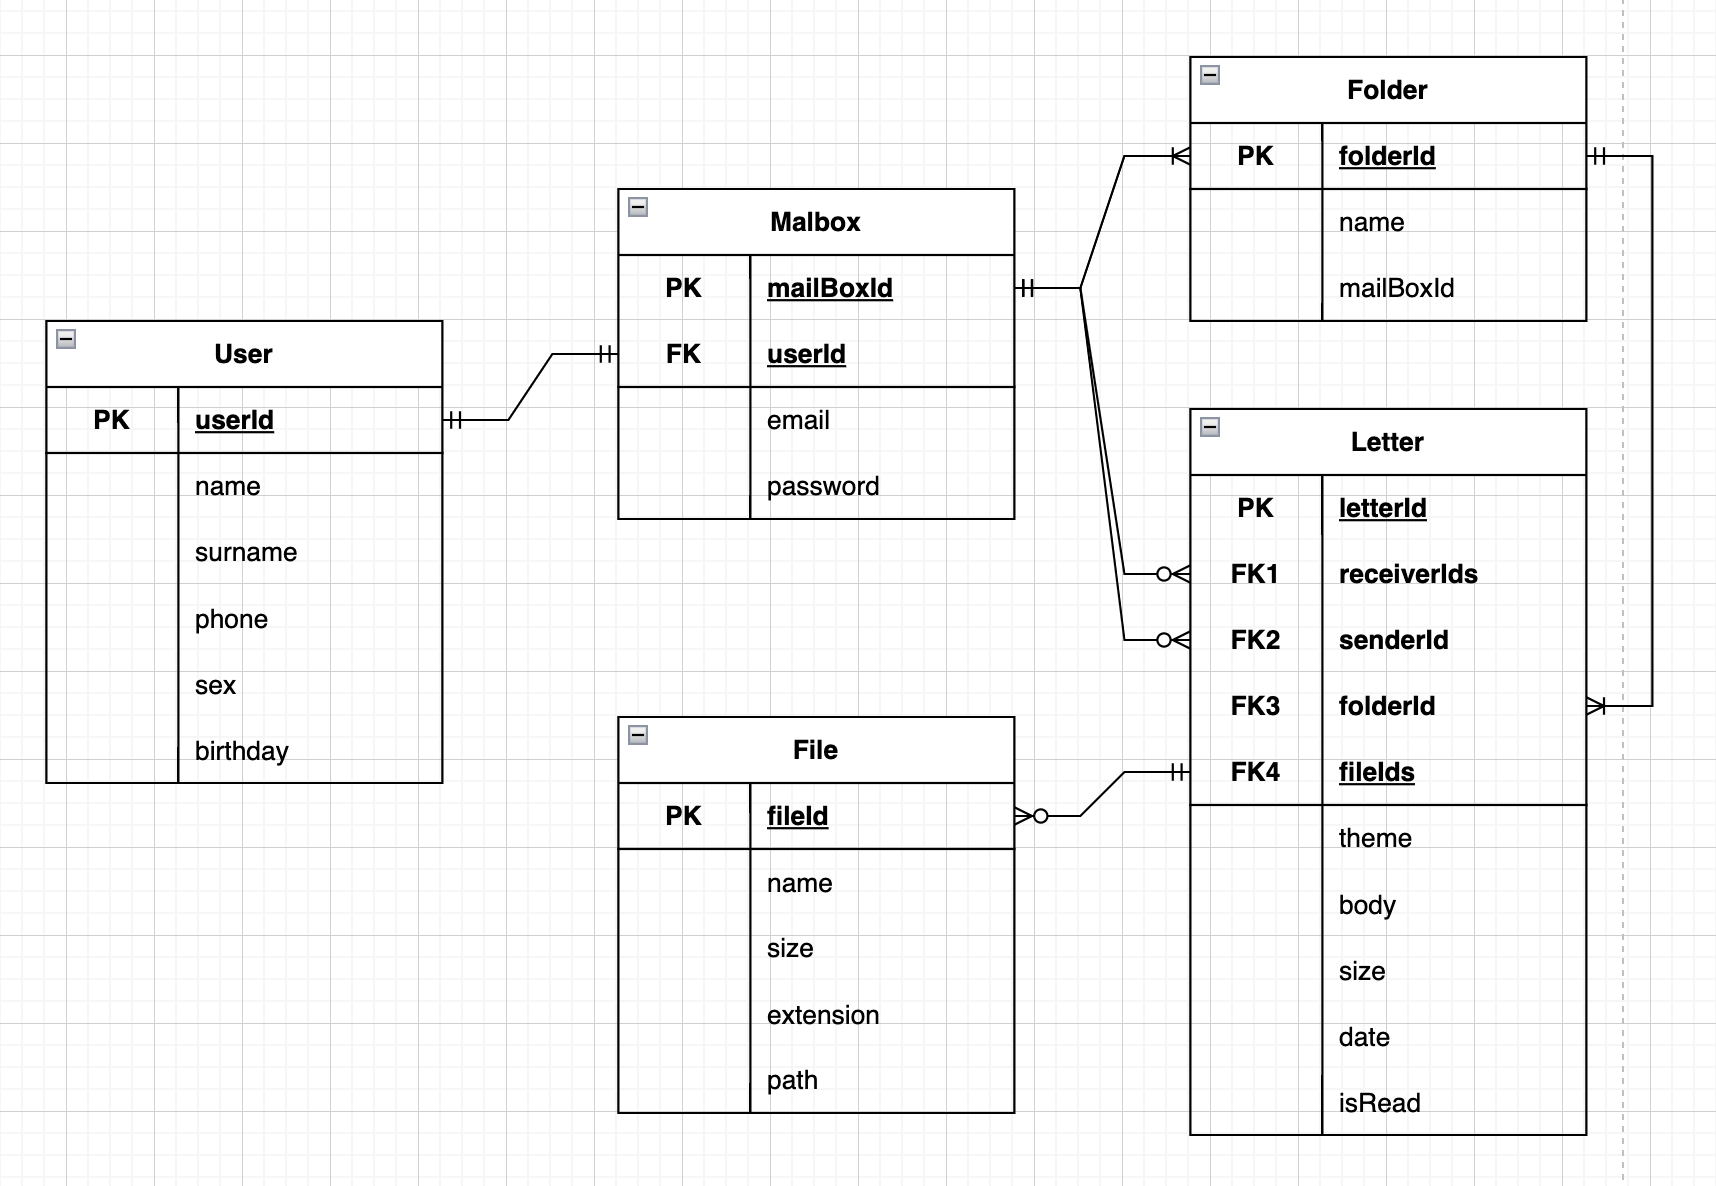
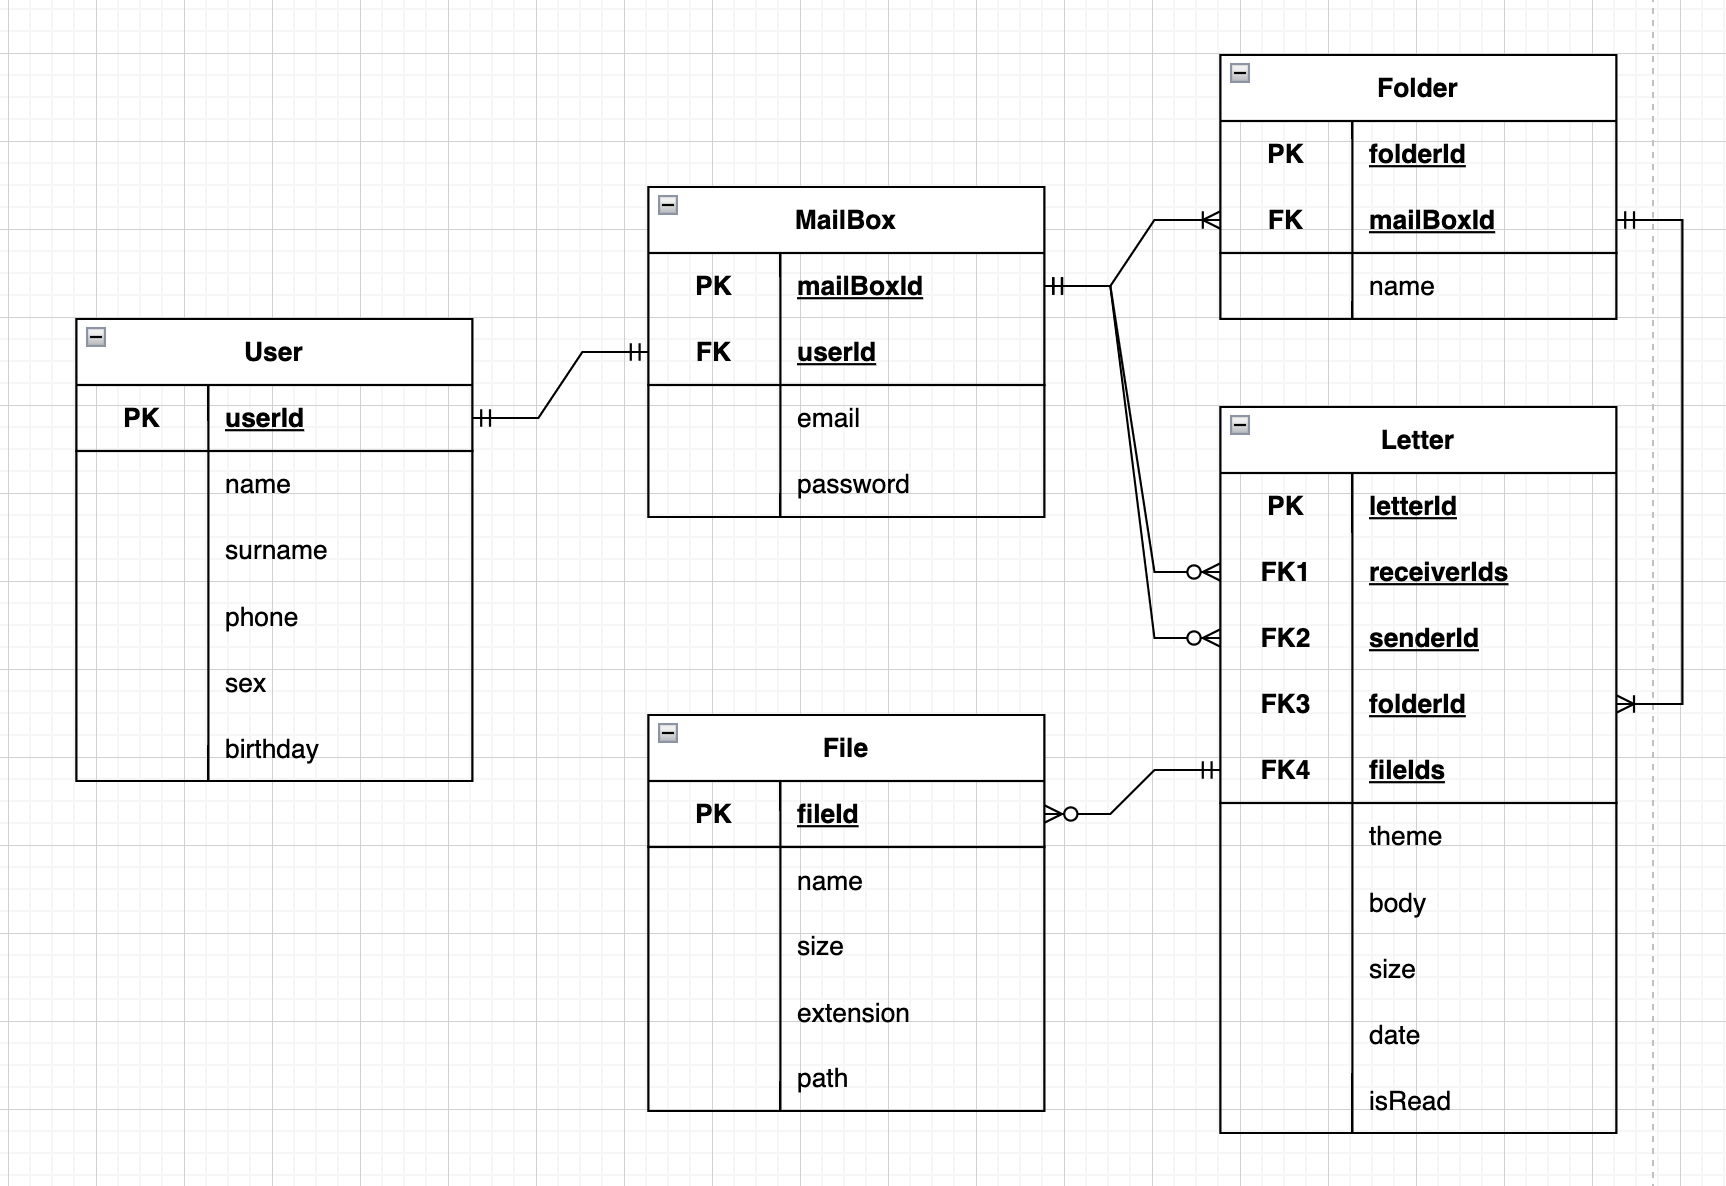
feat: add physical diagram of the database

diff --git a/README.md b/README.md
@@ -7,6 +7,7 @@
 * ### [Глобальная балансировка нагрузки](#3)
 * ### [Локальная балансировка нагрузки](#4)
 * ### [Логическая схема БД](#5)
+* ### [Физическая схема](#6)
 
 ## 1. Тема и целевая аудитория <a name="1"></a>
 
@@ -152,7 +153,83 @@
 ## 5. Логическая схема БД <a name="5"></a>
 ![image](er.png)
 
+## 6. Физическая схема <a name="6"></a>
+
+### Mailbox
+
+mailBoxId | userId  | email       | password    |
+--------- | ------- | ----------- | ----------- | 
+bigint    | bigint  | varchar(20) | varchar(32) | 
+
+Максимальный вес сущности <b>Mailbox</b> для одного пользователя:
+
+    8 + 8 + 20 + 32 = 68 байт ~ 0,07 Кбайт
+
+### User
+
+userId  | name          | surname      | phone  | sex      | birthday       | 
+------  | ------------- | ------------ | ------ | -------- | -------------- |
+bigint  | varchar(20)   | varchar(20)  | bigint | bool     | timestamp(UTC) | 
+
+Максимальный вес сущности <b>User</b> для одного пользователя:
+
+    8 + 20 + 20 + 8 + 1 + 4 = 61 байт ~ 0,06 Кбайт
+
+В данной таблице хранится основная информация по пользователе.
+
+### Folder
+
+folderId  | name          | mailBoxId     |
+--------- | ------------- | ------------- | 
+bigint    | varchar(20)   | bigint        |
+
+Максимальный вес сущности <b>Storage</b>:
+
+    8 + 20 + 8 = 36 байт ~ 0,035 Кбайт
+
+В данной таблице хранятся папки со связью с почтовыми ящиками.
+### Letter
+
+letterId  | receiverIds  | senderId         | folderId     | theme       | body             | fileIds         | size | date           | isRead |
+------    | ----------- | ---------------- | ------------- | ----------- | ---------------- | --------------- | ---- | -------------- | ------ |
+bigint    | bigint array[5]      | bigint   | bigint        | varchar(50) | varchar(1000000) | bigint array[5] | int  | timestamp(UTC) | bool   |
+
+Максимальный вес сущности <b>Letter</b>:
+
+    8 + 8 + 5*8 + 8 + 50 + 1 000 000 + 5*8 + 4 + 4 + 1 = 1 000 163 байт ~ 1 Mбайт
+
+Сервис позволяет отправлять до 5 прикрепленных файлов и до 5 пользователям.
+
+### File
+
+fileId    | name          | size      | extension       | path         |
+--------- | ------------- | --------- | --------------- | ------------ |
+bigint    | varchar(20)   | int       | varchar(8)      |  varchar(20) |
+
+Максимальный вес сущности <b>File</b>:
+
+    8 + 20 + 4 + 8 + 20 = 60 байт ~ 0,06 Кбайт
+
+В качестве СУБД будет использоваться LevelDB.
+
+Некоторые свойства LevelDB:
+* хранилище типа ключ-значение;
+* ключ и значение это произвольный массив байт;
+* данные хранятся упорядоченно, порядок можно задавать;
+* прямой и обратный итератор для обхода данных;
+* множественное атомарное обновление;
+* поддержка снимков;
+* сжатие данных через Snappy.
+
+Данная СУБД позволяет разделить данные каждого пользователя по папкам, что ускоряет выполнение запросов по получению данных пользователя.
+
+Таблица со списком пользователей будет храниться в key-value хранилище в Redis (в LevelDB нет удобной возможности шардинга), а прикрепленные файлы в S3 хранилище 
+(Cold boxes - "холодное" хранение, на более медленных и менее дорогостоящих дисках), т.к нет смысла считать все файлы "горячими" (только относительно недавние).
+
+Данные загружаются на сервер со скоростью записи жесткого диска.
+
 ## Список литературы
+
 [^1]: [Ежемесячная аудитория Почты Mail.ru](https://vk.company/ru/press/releases/11388/)
 [^2]: [Обзор Mail.ru Group](https://journal.tinkoff.ru/news/review-mail-ru-group/)
 [^3]: [НЕ безлимитный почтовый ящик](https://habr.com/ru/articles/272661/)
